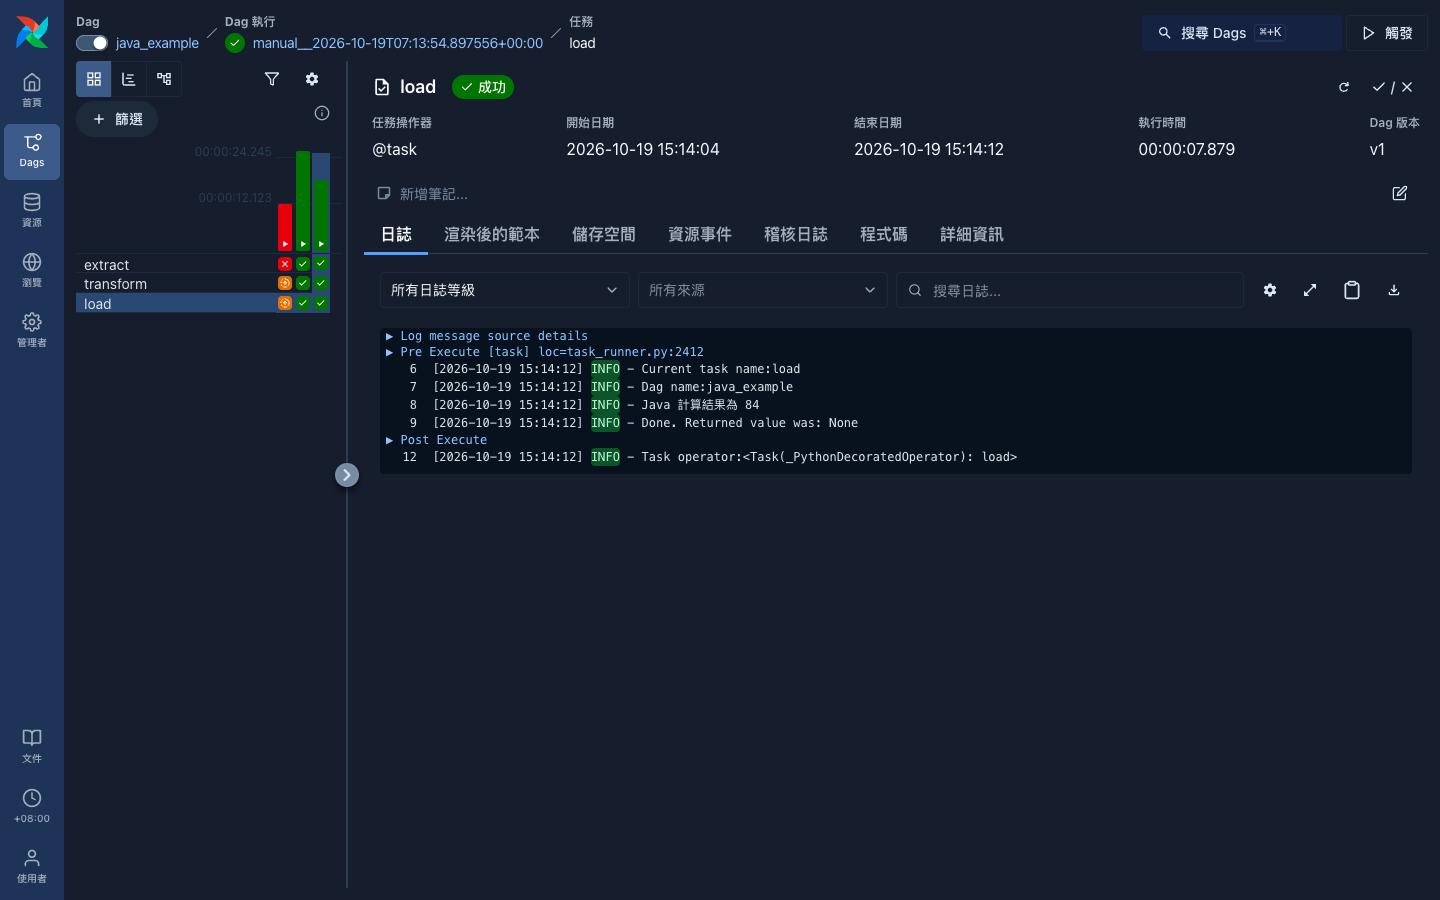
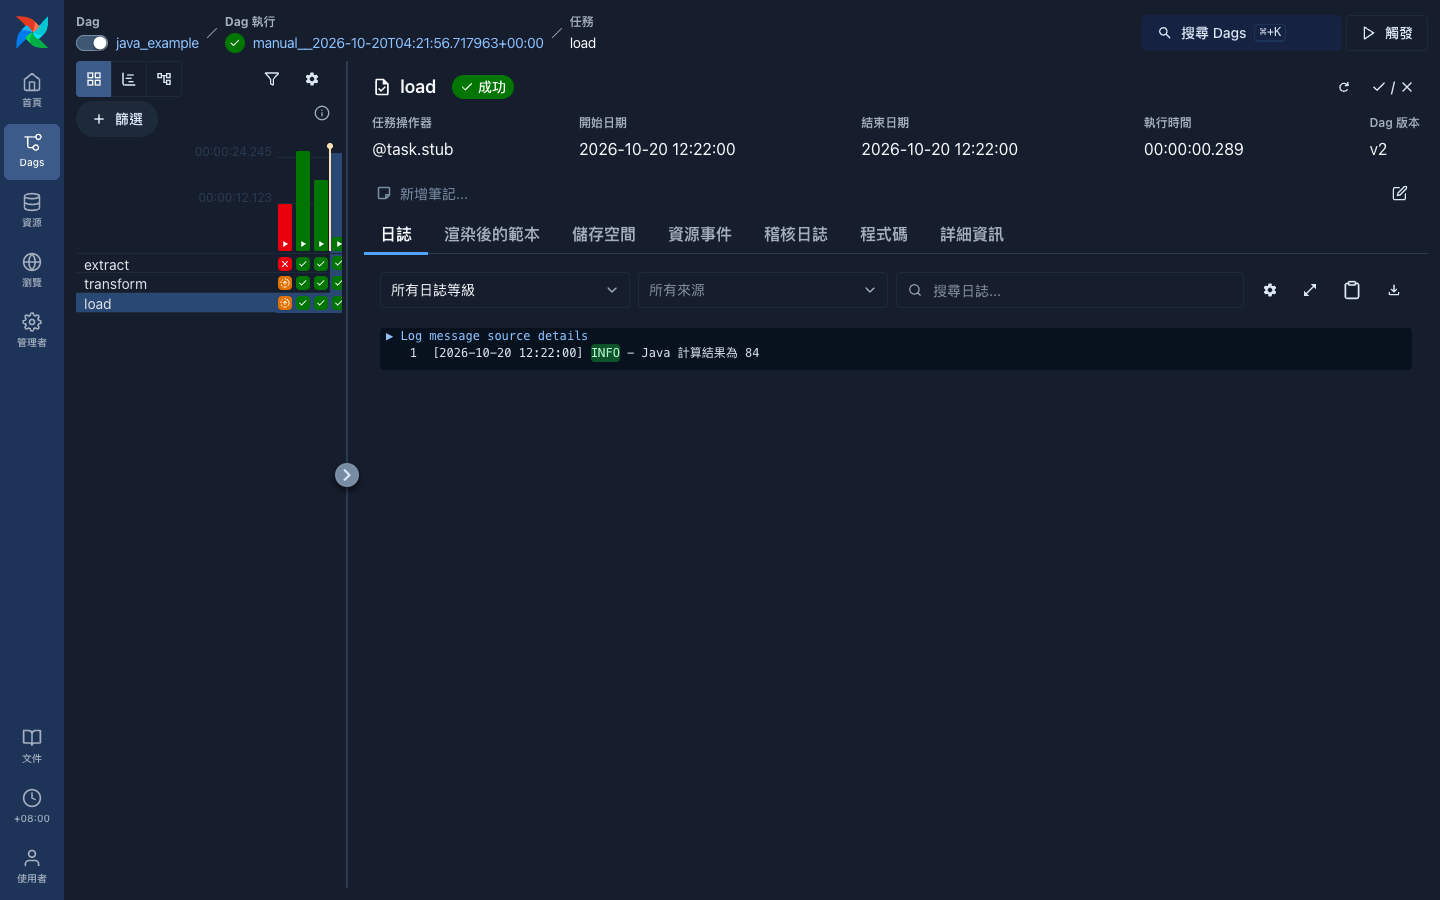
Generate Python stub DAGs from Java so no Python is hand-written
Add StubGenerator, which reflects over the Java SDK DAG definitions
and @Builder.XCom parameters to emit the Python @task.stub files that
Airflow 3.3 requires into dags/generated/. The Gradle bundle task now
runs it automatically.

Move the load step into Java and Kotlin so every task runs on the JVM,
remove the hand-written stub DAGs, and rewrite the README with updated
screenshots and limitations.

diff --git a/java-tasks/src/main/kotlin/com/example/KotlinExample.kt b/java-tasks/src/main/kotlin/com/example/KotlinExample.kt
@@ -12,4 +12,11 @@ class KotlinExample {
     @Builder.Task(id = "transform")
     fun transform(client: Client, @Builder.XCom(task = "extract") extracted: String): String =
         "Hello from Kotlin, ${extracted.uppercase()}!"
+
+    @Builder.Task(id = "load")
+    fun load(client: Client, @Builder.XCom(task = "transform") transformed: String): String {
+        val message = "Kotlin 回傳訊息: $transformed"
+        println(message)
+        return message
+    }
 }

diff --git a/java-tasks/src/main/java/com/example/StubGenerator.java b/java-tasks/src/main/java/com/example/StubGenerator.java
@@ -1,0 +1,161 @@
+package com.example;
+
+import java.io.IOException;
+import java.lang.annotation.Annotation;
+import java.lang.reflect.Method;
+import java.nio.file.DirectoryStream;
+import java.nio.file.Files;
+import java.nio.file.Path;
+import java.util.ArrayList;
+import java.util.LinkedHashMap;
+import java.util.LinkedHashSet;
+import java.util.List;
+import java.util.Map;
+import java.util.Set;
+import org.apache.airflow.sdk.Builder;
+import org.apache.airflow.sdk.Dag;
+import org.apache.airflow.sdk.Task;
+
+/**
+ * 從 Java 端的 DAG 定義產生 Airflow 需要的 Python stub 檔案。
+ *
+ * Airflow 3.3 只認得 Python 定義的 DAG, 而 Java SDK 1.0.0-beta1 的 Dag 物件只記錄 DAG id 與 task,
+ * 不含依賴關係與排程。因此這裡以反射讀取 @Builder.Task 與 @Builder.XCom, 由 XCom 的來源推得依賴,
+ * 再輸出 stub, 讓使用者不需要手寫任何 Python。
+ */
+public class StubGenerator {
+
+  private static final String HEADER =
+      """
+      # 此檔案由 StubGenerator 從 Java 的 DAG 定義自動產生, 請勿手動修改。
+      # 修改請改 java-tasks 內的原始碼, 再執行 gradle bundle 重新產生。
+      from __future__ import annotations
+
+      import pendulum
+      from airflow.sdk import dag, task
+
+      """;
+
+  public static void main(String[] args) throws Exception {
+    if (args.length != 1) {
+      throw new IllegalArgumentException("用法: StubGenerator <輸出目錄>");
+    }
+    Path outDir = Path.of(args[0]);
+    Files.createDirectories(outDir);
+    deleteStaleStubs(outDir);
+
+    for (Dag dag : new Main().getDags()) {
+      Path file = outDir.resolve(dag.getId() + ".py");
+      Files.writeString(file, render(dag));
+      System.out.println("已產生 " + file);
+    }
+  }
+
+  private static void deleteStaleStubs(Path outDir) throws IOException {
+    try (DirectoryStream<Path> stale = Files.newDirectoryStream(outDir, "*.py")) {
+      for (Path p : stale) {
+        Files.delete(p);
+      }
+    }
+  }
+
+  /** task id 對應到它依序依賴的上游 task id。 */
+  private static Map<String, List<String>> readDependencies(Dag dag) throws Exception {
+    Map<String, List<String>> deps = new LinkedHashMap<>();
+    for (Map.Entry<String, Class<? extends Task>> entry : dag.getTasks$sdk().entrySet()) {
+      deps.put(entry.getKey(), upstreamOf(entry.getKey(), entry.getValue()));
+    }
+    return deps;
+  }
+
+  private static List<String> upstreamOf(String taskId, Class<? extends Task> builderTask) {
+    // 註解處理器產生的 task 是 <使用者類別>Builder 的內部類別, 以此慣例找回使用者的類別
+    Class<?> builder = builderTask.getEnclosingClass();
+    String builderName = builder.getName();
+    if (!builderName.endsWith("Builder")) {
+      throw new IllegalStateException("無法由 " + builderName + " 推得使用者類別");
+    }
+    Class<?> userClass;
+    try {
+      userClass = Class.forName(builderName.substring(0, builderName.length() - "Builder".length()));
+    } catch (ClassNotFoundException e) {
+      throw new IllegalStateException("找不到使用者類別: " + builderName, e);
+    }
+
+    for (Method method : userClass.getDeclaredMethods()) {
+      Builder.Task marker = method.getAnnotation(Builder.Task.class);
+      if (marker == null || !marker.id().equals(taskId)) {
+        continue;
+      }
+      List<String> upstream = new ArrayList<>();
+      for (Annotation[] annotations : method.getParameterAnnotations()) {
+        for (Annotation annotation : annotations) {
+          if (annotation instanceof Builder.XCom xcom) {
+            upstream.add(xcom.task());
+          }
+        }
+      }
+      return upstream;
+    }
+    throw new IllegalStateException(userClass.getName() + " 找不到 id 為 " + taskId + " 的 @Builder.Task");
+  }
+
+  private static List<String> topologicalOrder(String dagId, Map<String, List<String>> deps) {
+    for (Map.Entry<String, List<String>> e : deps.entrySet()) {
+      for (String up : e.getValue()) {
+        if (!deps.containsKey(up)) {
+          throw new IllegalStateException(dagId + " 的 task " + e.getKey() + " 依賴不存在的 task: " + up);
+        }
+      }
+    }
+    Set<String> done = new LinkedHashSet<>();
+    while (done.size() < deps.size()) {
+      boolean progressed = false;
+      for (Map.Entry<String, List<String>> e : deps.entrySet()) {
+        if (!done.contains(e.getKey()) && done.containsAll(e.getValue())) {
+          done.add(e.getKey());
+          progressed = true;
+        }
+      }
+      if (!progressed) {
+        throw new IllegalStateException(dagId + " 的 task 依賴形成循環");
+      }
+    }
+    return new ArrayList<>(done);
+  }
+
+  private static String pythonName(String taskId) {
+    return taskId.replaceAll("[^A-Za-z0-9_]", "_");
+  }
+
+  private static String render(Dag dag) throws Exception {
+    Map<String, List<String>> deps = readDependencies(dag);
+    List<String> order = topologicalOrder(dag.getId(), deps);
+
+    StringBuilder py = new StringBuilder(HEADER);
+    py.append("\n@dag(\n")
+        .append("    dag_id=\"").append(dag.getId()).append("\",\n")
+        .append("    schedule=None,\n")
+        .append("    start_date=pendulum.datetime(2026, 1, 1, tz=\"Asia/Taipei\"),\n")
+        .append("    catchup=False,\n")
+        .append("    tags=[\"java-sdk\", \"generated\"],\n")
+        .append(")\n")
+        .append("def ").append(pythonName(dag.getId())).append("():\n");
+
+    for (String taskId : order) {
+      List<String> params = deps.get(taskId).stream().map(StubGenerator::pythonName).toList();
+      py.append("    @task.stub(task_id=\"").append(taskId).append("\", queue=\"java\")\n")
+          .append("    def ").append(pythonName(taskId)).append("(")
+          .append(String.join(", ", params)).append("): ...\n\n");
+    }
+
+    for (String taskId : order) {
+      List<String> args = deps.get(taskId).stream().map(up -> "r_" + pythonName(up)).toList();
+      py.append("    r_").append(pythonName(taskId)).append(" = ")
+          .append(pythonName(taskId)).append("(").append(String.join(", ", args)).append(")\n");
+    }
+
+    py.append("\n\n").append(pythonName(dag.getId())).append("()\n");
+    return py.toString();
+  }
+}

diff --git a/java-tasks/src/main/java/com/example/JavaExample.java b/java-tasks/src/main/java/com/example/JavaExample.java
@@ -14,4 +14,11 @@ public class JavaExample {
   public long transform(Client client, @Builder.XCom(task = "extract") long extracted) {
     return extracted * 2;
   }
+
+  @Builder.Task(id = "load")
+  public String load(Client client, @Builder.XCom(task = "transform") long transformed) {
+    var message = "Java 計算結果為 " + transformed;
+    System.out.println(message);
+    return message;
+  }
 }

diff --git a/README.md b/README.md
@@ -1,53 +1,73 @@
 # airflow-java-sdk-demo
 
-Airflow 3.3 Java SDK 範例。DAG 結構以 Python 的 `@task.stub` 宣告, task 實作寫在 Java 或 Kotlin, 由 `JavaCoordinator` 啟動 JVM 子程序執行。
+使用 Airflow 3.3 與 Java SDK `1.0.0-beta1`, 示範整個工作流都不需要手寫 Python。DAG、task 與依賴關係全部用 Java 或 Kotlin 撰寫, Airflow 需要的 Python stub 由 Java 程式自動產生。
 
 ![DAG 清單](docs/images/dag-list.png)
 
+## 為什麼需要產生 Python stub
+
+Airflow 3.3 的 DAG 一定要以 Python 定義, 這是官方文件的限制, task 的實作才可以換成其他語言。而 Java SDK `1.0.0-beta1` 的 `Dag` 物件只記錄 DAG id 與 task, 不含依賴關係與排程, Airflow 也還不會向 JVM 請求解析 DAG。
+
+所以本專案的做法是:
+
+1. 以 Java 或 Kotlin 寫 DAG 與 task, 依賴關係用 `@Builder.XCom` 表示。
+2. `StubGenerator` 以反射讀出 DAG、task 與 `@Builder.XCom`, 推得依賴關係, 產生 Python stub 到 `dags/generated/`。
+3. Airflow 讀取 stub 得到 DAG 結構, 每個 task 再由 `JavaCoordinator` 啟動 JVM 執行。
+
+使用者全程只需要維護 Java 與 Kotlin 原始碼, `dags/generated/` 不進版控, 每次建置都會重新產生。
+
+![自動產生的 stub](docs/images/generated-stub.png)
+
 ## 運作方式
 
-1. Airflow 讀取 `dags/` 底下的 Python 檔案, 取得 DAG 的結構。
-2. 標示為 `@task.stub(queue="java")` 的 task, 不會在 Python 內執行, 而是依 `queue_to_coordinator` 設定轉交給 `JavaCoordinator`。
+1. Airflow 讀取 `dags/generated/` 的 Python 檔案, 取得 DAG 結構。
+2. 標示為 `@task.stub` 且 `queue="java"` 的 task 不會在 Python 內執行, 而是依 `queue_to_coordinator` 設定轉交給 `JavaCoordinator`。
 3. `JavaCoordinator` 在 `jars_root` 內找到 bundle JAR, 啟動 JVM 執行對應的 Java 或 Kotlin 方法。
-4. task 之間的回傳值透過 XCom 傳遞, 所以 Java 與 Python 的 task 可以接在同一個 DAG 裡。
-
-stub 的 `dag_id` 與 task id 必須與 `@Builder.Dag` 和 `@Builder.Task` 的 id 完全一致, 否則 coordinator 找不到實作。
+4. task 之間的回傳值透過 XCom 傳遞。
 
 ## 專案結構
 
 | 路徑 | 說明 |
 | :--- | :--- |
-| `dags/hello_dag.py` | 純 Python 的通用範例 DAG |
-| `dags/java_example.py` | Java 範例的 Python stub, `extract` 與 `transform` 由 Java 執行, `load` 由 Python 執行 |
-| `dags/kotlin_example.py` | Kotlin 範例的 Python stub, 同樣透過 Java SDK 執行 |
-| `java-tasks/` | Java 與 Kotlin 的 task 實作, 使用 Gradle 建置, 兩個 DAG 打包在同一個 bundle |
+| `java-tasks/src/main/java/com/example/JavaExample.java` | Java 的 DAG 與 task, 包含 `extract`、`transform`、`load` |
+| `java-tasks/src/main/kotlin/com/example/KotlinExample.kt` | Kotlin 的 DAG 與 task, 寫法與 Java 相同 |
+| `java-tasks/src/main/java/com/example/Main.java` | bundle 進入點, 註冊所有 DAG |
+| `java-tasks/src/main/java/com/example/StubGenerator.java` | 由 Java 的 DAG 定義產生 Python stub |
+| `java-tasks/build.gradle.kts` | Gradle 建置, `bundle` 結束後會自動執行 `generateStubs` |
+| `dags/generated/` | 自動產生的 Python stub, 不進版控 |
+| `dags/hello_dag.py` | 純 Python 的通用範例 DAG, 與本示範無關, 僅供對照 |
 
 ## 先決條件
 
-- Python 3.14 與 [uv](https://docs.astral.sh/uv/)
+- Python 3.14 與 [uv](https://docs.astral.sh/uv/), 只用來安裝與執行 Airflow 本身
 - JDK 17 以上
 - Gradle
 
 ## 執行步驟
 
-### 1. 安裝 Python 依賴
+### 1. 安裝 Airflow
 
 ```bash
 uv sync
 ```
 
-### 2. 建置 Java bundle
+### 2. 建置 bundle 並產生 stub
 
 ```bash
 cd java-tasks
 gradle bundle
 ```
 
-產出位於 `java-tasks/build/bundle/java-tasks-all.jar`。Kotlin 的 annotation processor 透過 `kapt` 執行。
+這一個指令會完成兩件事:
+
+- 產出 `java-tasks/build/bundle/java-tasks-all.jar`。
+- 產生 `dags/generated/java_example.py` 與 `dags/generated/kotlin_example.py`。
+
+Kotlin 的 annotation processor 透過 `kapt` 執行。
 
 ### 3. 設定 Airflow
 
-先產生並設定 `airflow.cfg`, 專案的 `airflow.cfg` 不納入版控。在其中加入以下設定, `jars_root` 請改成實際的絕對路徑:
+`airflow.cfg` 不納入版控。在其中加入以下設定, `jars_root` 請改成實際的絕對路徑:
 
 ```ini
 [sdk]
@@ -78,33 +98,57 @@ airflow dags trigger java_example
 
 ## 預期結果
 
+三個 task 全部由 JVM 執行, 在 UI 上的任務操作器都顯示為 `@task.stub`。
+
 ### `java_example`
 
-`extract` 回傳 42, `transform` 乘以 2, Python 的 `load` 印出「Java 計算結果為 84」。
+`extract` 回傳 42, `transform` 乘以 2, `load` 印出「Java 計算結果為 84」。
 
 ![java_example 的 load 日誌](docs/images/java-load-log.png)
 
 ### `kotlin_example`
 
-`extract` 回傳 `"airflow"`, `transform` 回傳 `"Hello from Kotlin, AIRFLOW!"`。下圖的任務清單中, `extract` 與 `transform` 的任務操作器顯示為 `@task.stub`, 表示它們是交給 Java SDK 執行, `load` 則是一般的 `@task`。
+`extract` 回傳 `"airflow"`, `transform` 回傳 `"Hello from Kotlin, AIRFLOW!"`, `load` 印出該訊息。
 
 ![kotlin_example 的執行頁](docs/images/kotlin-run.png)
 
-Python 的 `load` 印出 Kotlin 回傳的訊息:
-
 ![kotlin_example 的 load 日誌](docs/images/kotlin-load-log.png)
+
+## 新增自己的 DAG
+
+1. 新增一個類別並加上 `@Builder.Dag`, 方法加上 `@Builder.Task`, 上游的回傳值用 `@Builder.XCom` 接收。
+2. 把新 DAG 的 `XxxBuilder.build()` 加進 `Main.getDags()`。
+3. 執行 `gradle bundle`, 就會產生對應的 stub。
+
+```java
+@Builder.Dag(id = "my_dag")
+public class MyDag {
+  @Builder.Task(id = "first")
+  public String first(Client client) { return "hi"; }
+
+  @Builder.Task(id = "second")
+  public String second(Client client, @Builder.XCom(task = "first") String text) { return text + "!"; }
+}
+```
+
+## 限制
+
+- 依賴關係只能由 `@Builder.XCom` 推得, 沒有回傳值需要傳遞的順序依賴, 目前無法表示。
+- 排程固定為 `schedule=None`, 也就是手動觸發。`@Builder.Dag` 的 `to` 屬性在 `1.0.0-beta1` 的註解處理器中沒有被使用。
+- 產生器依慣例由 `XxxBuilder` 推回使用者的 `Xxx` 類別, 所以 DAG 類別必須與註解處理器產生的 Builder 在同一個套件。
+- Airflow 本身是 Python 應用程式, 所以環境中仍然需要 Python, 只是不需要撰寫。
+- Java SDK 目前為 `1.0.0-beta1`, API 之後可能會變動。若官方之後讓 Airflow 直接解析 Java 的 DAG, 就可以移除這個產生器。
 
 ## 疑難排解
 
 | 現象 | 原因與處理 |
 | :--- | :--- |
+| UI 看不到 DAG | 先執行 `gradle bundle` 產生 stub, 並確認 `dags/generated/` 有檔案。 |
 | `airflow dags test` 出現 `@task.stub should not be executed directly` | `dags test` 在同一個行程內執行 task, 不會經過 coordinator, stub 無法用它驗證。請改用 `airflow standalone` 並觸發 DAG。 |
 | `airflow` 指令提示 `Database migration required` | 先執行 `airflow db migrate`。 |
 | `airflow standalone` 的子行程啟動失敗 | `airflow` 不在 `PATH`, 請先 `export PATH=$PWD/.venv/bin:$PATH`。 |
 | 8080 Port 已被占用 | 先前的 Airflow 行程還在執行, 請先停止, 修改過設定後也需要重啟才會生效。 |
 | task 找不到 JAR 或 `Main-Class` | 確認已執行 `gradle bundle`, 且 `jars_root` 是正確的絕對路徑。 |
-| 改了 Java 或 Kotlin 程式碼後沒有生效 | 重新執行 `gradle bundle` 即可, 每個 task 都會啟動新的 JVM, 不需要重啟 Airflow。 |
+| 改了 Java 或 Kotlin 程式碼後沒有生效 | 重新執行 `gradle bundle`。每個 task 都會啟動新的 JVM, 不需要重啟 Airflow, 但 DAG 結構變動後 dag-processor 需要數十秒才會重新解析 stub。 |
 
-## 注意事項
-
-Java SDK 目前為 `1.0.0-beta1`, API 之後可能會變動。官方文件請參考 [Java SDK](https://airflow.apache.org/docs/apache-airflow/stable/authoring-and-scheduling/language-sdks/java.html)。
+官方文件請參考 [Java SDK](https://airflow.apache.org/docs/apache-airflow/stable/authoring-and-scheduling/language-sdks/java.html)。
